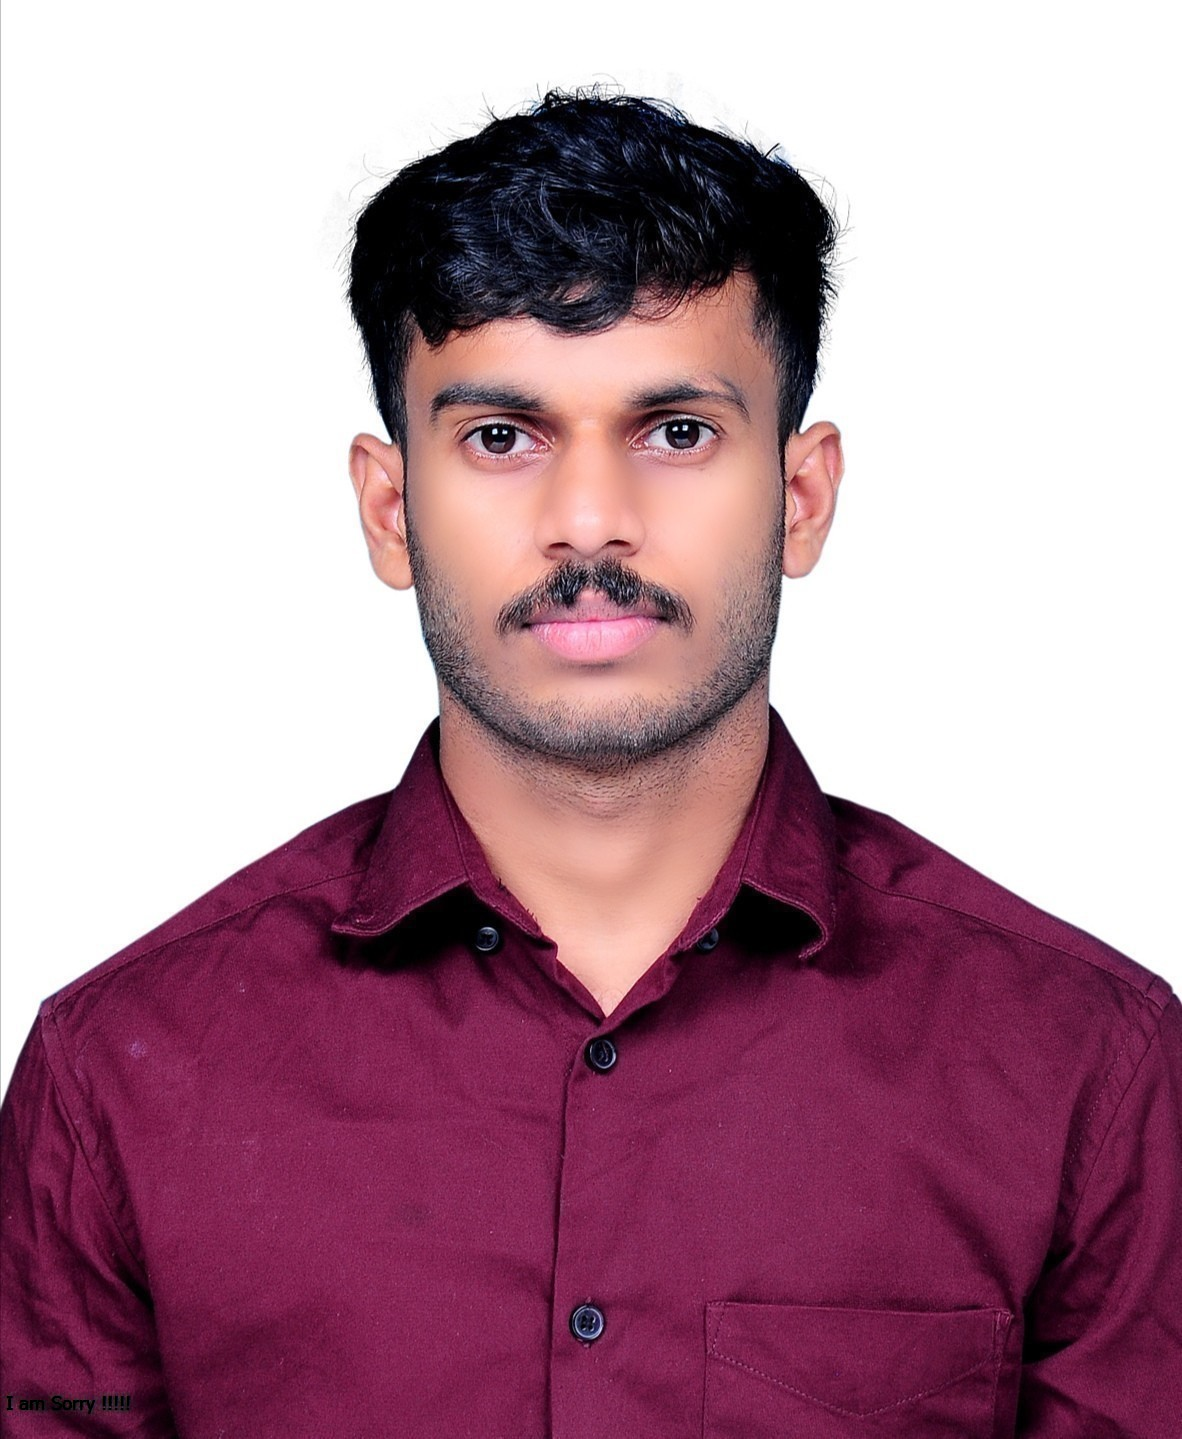
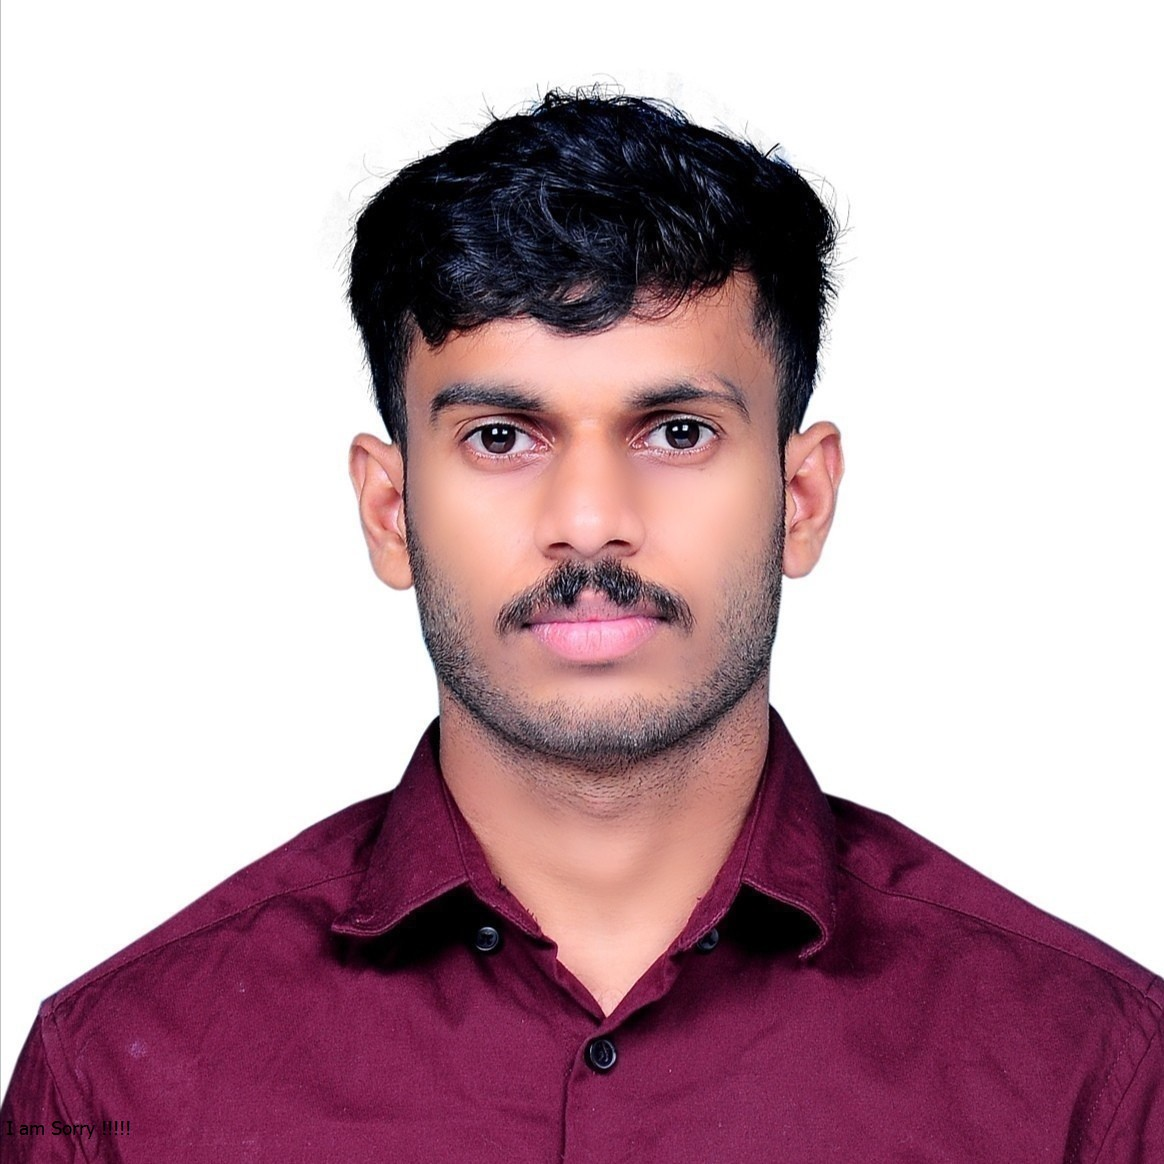
initial commit

diff --git a/index.html b/index.html
@@ -23,11 +23,11 @@
         <!-- LEFT -->
         <div class="row">
             <div class="col-lg-2 col-md-1 col-sm-0"></div>
-            <div class="col-lg-2 col-md-3 col-sm-4 col-5 image">
-
+            <div class="col-lg-2 col-md-3 col-sm-4  image g-0">
+                <img src="./image/Rishad.jpg" alt="" class="img-fluid">
             </div>
             <!-- RIGHT -->
-            <div class="col-lg-6 col-md-7 col-sm-8 col-7" style="background-color: rgb(228, 228, 201);">
+            <div class="col-lg-6 col-md-7 col-sm-8 " style="background-color: rgb(228, 228, 201);">
                 <h1 class="text-center name"><b>MUHAMMED RISHAD K</b></h1>
                 <h4 class="text-center pt-2 profession pb-5"><b>PYTHON DEVELOPER</b></h4>
             </div>
@@ -42,12 +42,12 @@
                 <h6 class="ps-3 pt-5"><b>CONTACT</b>
 
                 </h6>
-                <i class="fa-solid fa-phone  ps-3 pt-3"> <small class="ms-3 me-2"
-                        style="line-height: 2.5;">8943634124</small></i>
-                <i class="fa-regular fa-envelope ps-3"><small class="ms-3 me-2"
-                        style="line-height: 2.5;">muhdrishadk@gmail.com</small></i>
-                <i class="fa-brands fa-linkedin ps-3"><small class="ms-3 me-2" style="line-height: 2.5;">Muhammed
-                        Rishad k</small></i>
+                <i class="fa-solid fa-phone  ps-3 pt-3"> <li class="ms-1 me-2"
+                        style="line-height: 2; display: inline; ">8943634124</li></i>
+                <i class="fa-regular fa-envelope ps-3"><li class="ms-1 me-2"
+                        style="line-height: 2; display: inline;">muhdrishadk@gmail.com</li></i>
+                <i class="fa-brands fa-linkedin ps-3"><li  class="ms-1 me-2" style="line-height: 2; display: inline;">Muhammed
+                        Rishad k</li></i>
                 <h6 class="ps-3 pt-4"><b>SKILLS</b>
 
                 </h6>

diff --git a/style.css b/style.css
@@ -1,12 +1,14 @@
 @import url('https://fonts.googleapis.com/css2?family=EB+Garamond&family=Macondo&family=Mukta:wght@200&display=swap');
-.image{
+/* .image{
     background-image: url("./image/Rishad.jpg");
     background-size: cover;
     background-repeat: no-repeat;
     background-position: center;
     height: auto;
+} */
+img{
+    height: auto;
 }
-
 .name{
     padding-top: 80px;
     font-family: 'Macondo', cursive;
